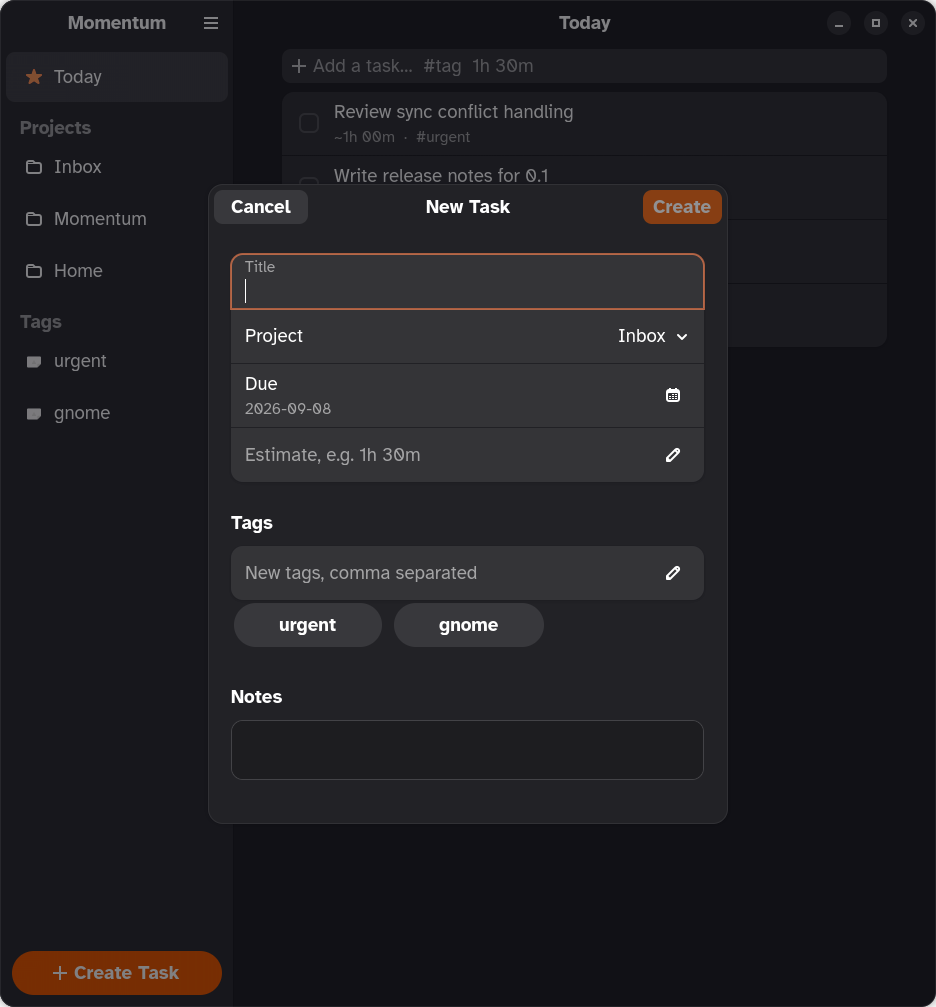
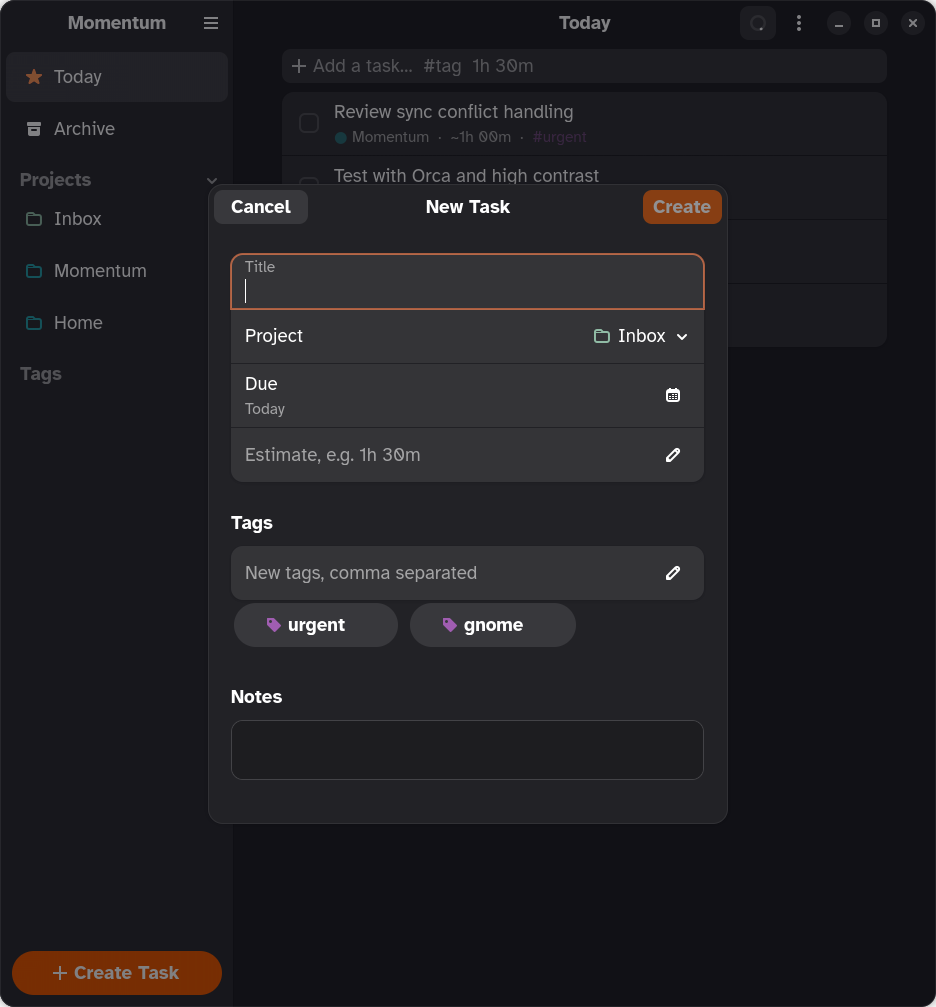
Colour-coded project dropdown and tag chips in the task dialog; Ascending/Descending sort; demo mode never syncs

diff --git a/crates/app/src/task_form.rs b/crates/app/src/task_form.rs
@@ -3,11 +3,13 @@
 //! Shared form for creating and editing a task: title, project, due day, estimate, tags, notes.
 use adw::prelude::*;
 use gettextrs::gettext;
-use gtk::glib;
+use gtk::{gio, glib};
 use sp_model::*;
 use sp_store::Store;
 use std::cell::RefCell;
 use std::rc::Rc;
+
+use crate::window::{tag_color, MomentumWindow};
 
 pub struct TaskForm {
     pub page: adw::PreferencesPage,
@@ -34,7 +36,14 @@ fn tomorrow() -> String {
 }
 
 impl TaskForm {
-    pub fn new(store: &Store, task: Option<&Task>, default_project: &str, default_due: Option<String>) -> Self {
+    pub fn new(
+        win: &MomentumWindow,
+        store: &Store,
+        task: Option<&Task>,
+        default_project: &str,
+        default_due: Option<String>,
+    ) -> Self {
+        let colorful = gio::Settings::new(*crate::config::APP_ID).boolean("colorful-labels");
         let page = adw::PreferencesPage::new();
         let group = adw::PreferencesGroup::new();
         let title = adw::EntryRow::builder()
@@ -48,6 +57,47 @@ impl TaskForm {
         let project_ids: Vec<String> = projects.iter().map(|p| p.id.clone()).collect();
         let names = gtk::StringList::new(&projects.iter().map(|p| p.title.as_str()).collect::<Vec<_>>());
         let project = adw::ComboRow::builder().title(gettext("Project")).model(&names).build();
+        // Colour-coded rows: folder icon in the project's colour, both in the button and the list.
+        let classes: Rc<Vec<Option<String>>> = Rc::new(
+            projects
+                .iter()
+                .map(|p| p.color().filter(|_| colorful).and_then(|c| win.color_class(c)))
+                .collect(),
+        );
+        let titles: Rc<Vec<String>> = Rc::new(projects.iter().map(|p| p.title.clone()).collect());
+        let make_factory = || {
+            let f = gtk::SignalListItemFactory::new();
+            f.connect_setup(|_, item| {
+                let item = item.downcast_ref::<gtk::ListItem>().unwrap();
+                let b = gtk::Box::builder().spacing(8).build();
+                b.append(&gtk::Image::from_icon_name("folder-symbolic"));
+                b.append(&gtk::Label::builder().xalign(0.0).build());
+                item.set_child(Some(&b));
+            });
+            f.connect_bind(glib::clone!(
+                #[strong]
+                classes,
+                #[strong]
+                titles,
+                move |_, item| {
+                    let item = item.downcast_ref::<gtk::ListItem>().unwrap();
+                    let b = item.child().and_downcast::<gtk::Box>().unwrap();
+                    let (icon, label) = (
+                        b.first_child().and_downcast::<gtk::Image>().unwrap(),
+                        b.last_child().and_downcast::<gtk::Label>().unwrap(),
+                    );
+                    let i = item.position() as usize;
+                    label.set_label(titles.get(i).map(String::as_str).unwrap_or(""));
+                    icon.set_css_classes(&[]);
+                    if let Some(Some(c)) = classes.get(i) {
+                        icon.add_css_class(c);
+                    }
+                }
+            ));
+            f
+        };
+        project.set_factory(Some(&make_factory()));
+        project.set_list_factory(Some(&make_factory()));
         let want = task.map(|t| t.project_id.as_str()).unwrap_or(default_project);
         project.set_selected(project_ids.iter().position(|i| i == want).unwrap_or(0) as u32);
         if task.is_some_and(|t| t.parent_id.is_some()) {
@@ -136,11 +186,20 @@ impl TaskForm {
             .build();
         let mut tag_buttons = vec![];
         for g in store.state.tag.iter().filter(|g| g.id != TODAY_TAG_ID) {
+            let content = gtk::Box::builder().spacing(6).build();
+            let icon = gtk::Image::from_icon_name("tag-symbolic");
+            if let Some(c) = tag_color(g).filter(|_| colorful).and_then(|c| win.color_class(c)) {
+                icon.add_css_class(&c);
+            }
+            content.append(&icon);
+            content.append(&gtk::Label::new(Some(&g.title)));
             let b = gtk::ToggleButton::builder()
-                .label(&g.title)
+                .child(&content)
                 .active(task.is_some_and(|t| t.tag_ids.contains(&g.id)))
                 .css_classes(["pill"])
+                .tooltip_text(&g.title)
                 .build();
+            b.update_property(&[gtk::accessible::Property::Label(&g.title)]);
             flow.insert(&b, -1);
             tag_buttons.push((g.id.clone(), b));
         }

diff --git a/crates/app/src/window.rs b/crates/app/src/window.rs
@@ -212,7 +212,7 @@ pub fn fmt_day(day: &str) -> String {
 }
 
 /// CSS colour string from the sync data → `#rrggbb` for Pango markup.
-fn hex_color(color: &str) -> Option<String> {
+pub fn hex_color(color: &str) -> Option<String> {
     let c = gtk::gdk::RGBA::parse(color).ok()?;
     Some(format!(
         "#{:02x}{:02x}{:02x}",
@@ -221,7 +221,7 @@ fn hex_color(color: &str) -> Option<String> {
         (c.blue() * 255.0) as u8
     ))
 }
-fn tag_color(g: &Tag) -> Option<&str> {
+pub fn tag_color(g: &Tag) -> Option<&str> {
     g.color
         .as_deref()
         .or_else(|| g.theme.get("primary").and_then(Value::as_str))
@@ -302,8 +302,17 @@ impl MomentumWindow {
         }
         // Stateful sort action backed by GSettings; the header menu's radio items target it.
         self.add_action(&imp.settings.create_action("task-sort"));
+        self.add_action(&imp.settings.create_action("sort-direction"));
         imp.settings.connect_changed(
             Some("task-sort"),
+            glib::clone!(
+                #[weak(rename_to = w)]
+                self,
+                move |_, _| w.refresh_tasks()
+            ),
+        );
+        imp.settings.connect_changed(
+            Some("sort-direction"),
             glib::clone!(
                 #[weak(rename_to = w)]
                 self,
@@ -443,6 +452,10 @@ impl MomentumWindow {
     }
 
     fn sync_configured(&self) -> bool {
+        // Demo/screenshot runs must never touch a real server.
+        if std::env::var_os("MOMENTUM_DEMO").is_some() {
+            return false;
+        }
         let s = &self.imp().settings;
         s.boolean("sync-enabled")
             && ["nextcloud-server", "nextcloud-user", "nextcloud-folder"]
@@ -700,7 +713,7 @@ impl MomentumWindow {
     }
 
     /// CSS class that colours symbolic icons with a project/tag colour from the sync data.
-    fn color_class(&self, color: &str) -> Option<String> {
+    pub fn color_class(&self, color: &str) -> Option<String> {
         let safe: String = color
             .chars()
             .filter(|c| c.is_ascii_alphanumeric() || "#(),. %".contains(*c))
@@ -1015,6 +1028,7 @@ impl MomentumWindow {
             }
         }
         let sort = imp.settings.string("task-sort");
+        let descending = imp.settings.string("sort-direction") == "descending";
         for list in [&mut open, &mut done] {
             match sort.as_str() {
                 "title" => list.sort_by_key(|t| t.title.to_lowercase()),
@@ -1024,9 +1038,12 @@ impl MomentumWindow {
                         .cmp(&b.due_day.is_none())
                         .then_with(|| a.due_day.cmp(&b.due_day))
                 }),
-                "estimate" => list.sort_by(|a, b| b.time_estimate.total_cmp(&a.time_estimate)),
-                "created" => list.sort_by_key(|t| std::cmp::Reverse(t.created)),
+                "estimate" => list.sort_by(|a, b| a.time_estimate.total_cmp(&b.time_estimate)),
+                "created" => list.sort_by_key(|t| t.created),
                 _ => {}
+            }
+            if descending {
+                list.reverse();
             }
         }
         for t in open.into_iter().chain(done) {
@@ -1240,6 +1257,7 @@ impl MomentumWindow {
             )
         };
         let form = Rc::new(crate::task_form::TaskForm::new(
+            self,
             &imp.store.borrow(),
             None,
             &project,
@@ -1307,6 +1325,7 @@ impl MomentumWindow {
             return;
         };
         let form = Rc::new(crate::task_form::TaskForm::new(
+            self,
             &imp.store.borrow(),
             Some(&t),
             &t.project_id,
@@ -1418,6 +1437,9 @@ impl MomentumWindow {
 
     pub fn sync(&self) {
         let imp = self.imp();
+        if std::env::var_os("MOMENTUM_DEMO").is_some() {
+            return;
+        }
         if !imp.settings.boolean("sync-enabled") {
             self.toast(&gettext("Sync is turned off. Enable it in Preferences."));
             return;
